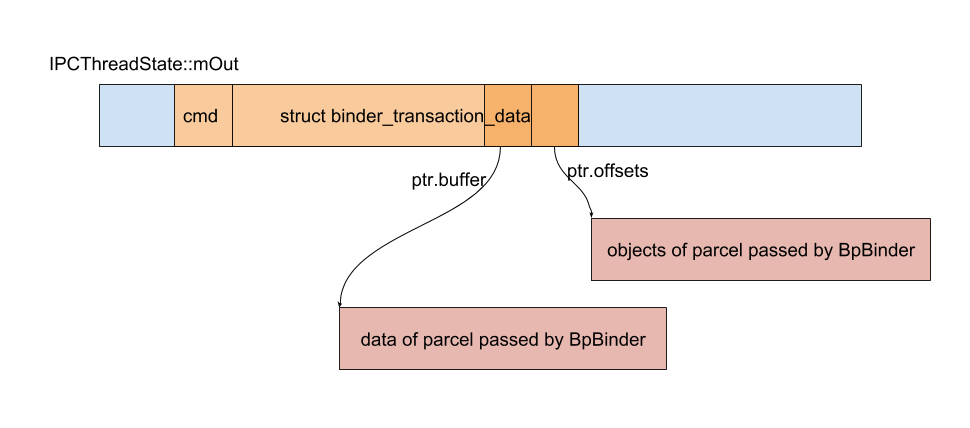
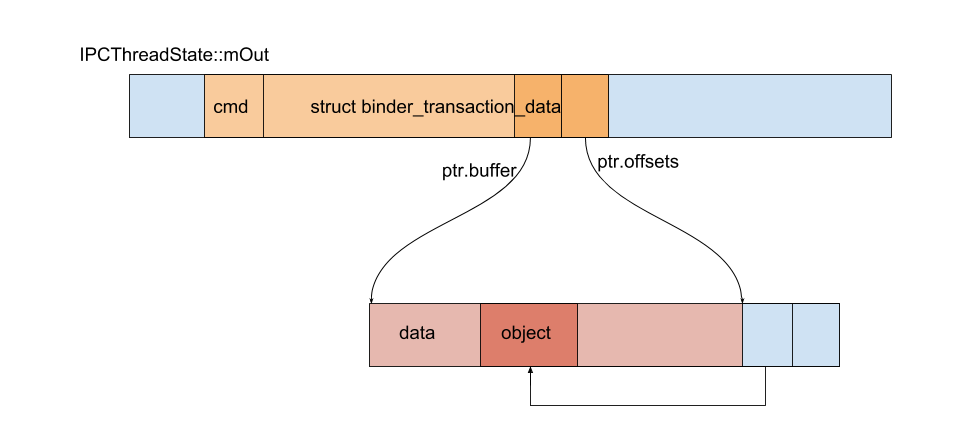
Fixbug: offsets of binder_transaction_data is wrong

diff --git a/android/binder/binder-service-registration-part2.md b/android/binder/binder-service-registration-part2.md
@@ -142,7 +142,7 @@ status_t IPCThreadState::writeTransactionData(int32_t cmd, uint32_t binderFlags,
 几个值得注意的地方：
 1. `cmd` 为 `BC_TRANSACTION`。
 2. `tr.data.ptr.buffer` 指向实际的普通数据
-3. `tr.data.ptr.offsets` 指向 objects。也就是前面我们通过 `writeObject(flat, false)` 写入的 `flat_binder_object`。
+3. `tr.data.ptr.offsets` 指向 objects 的偏移数组。也就是前面我们通过 `writeObject(flat, false)` 写入的 `flat_binder_object`。
 4. `mOut` 同样是一个 `Parcel`，我们将 `cmd` 和所构造的 `binder_transaction_data` 放在了这个 `mOut` 里面。比较容易令人迷惑的是，虽然函数名叫 `writeTransactionData`，实际上只是把数据写入了 `mOut` 里（还没有写入 binder 驱动）。
 
 写入数据后如下图所示：
@@ -389,7 +389,7 @@ static void binder_transaction(struct binder_proc *proc,
 1. 分配了两个对象 `binder_transaction` 和 `binder_work`。`binder_work` 后面我们就会看到它的作用，这里先忽略。
 2. 调用 `binder_alloc_new_buf` 分配了一块缓存。这里分配的缓存是 context manager 的调用 `mmap` 时候所创建的。
 3. 拷贝 `Parcel` 的数据
-4. 拷贝 `Parcel` 的对象
+4. 拷贝 `Parcel` 的对象的偏移数组
 
 我们知道，内核的页和用户空间的页同时执行 `mmap` 所分配的缓存。所以这里虽然是拷贝到了内核，context manager 也能够直接读取这里拷贝的到 `Parcel` 的数据。也就是说，从一个进程到另一个进程，数据只拷贝了一次。这就是 binder 高效的原因。
 
